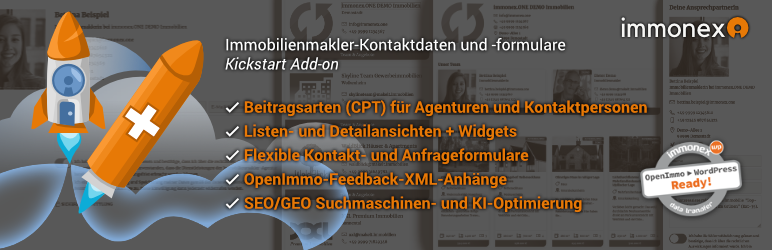
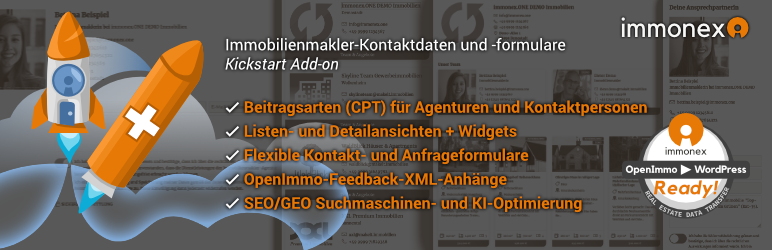
fix: automated agency assignment/update
- rework automated agency assignment
 - fix checksum comparison (automatic agency data updates)
 - update dependencies (i.a. core 2.7.0)
 - update header images
 - bump stable version to 1.8.3

Changed region(s): [[0.8083, 0.448, 0.9637, 0.868]]

diff --git a/src/includes/class-agency-hooks.php b/src/includes/class-agency-hooks.php
@@ -241,14 +241,15 @@ class Agency_Hooks extends Base_CPT_Hooks {
 	} // is_valid_agency_id
 
 	/**
-	 * Find an agency post based on the given parameters (including company name
-	 * vs. post title similarity check).
+	 * Find an agency post based on the given parameters.
 	 *
 	 * @since 1.0.0
 	 *
 	 * @param int|string|bool $author_id Author ID.
-	 * @param string|bool     $import_folder Related import folder.
-	 * @param string|bool     $company Agency company name.
+	 * @param string          $import_folder Related import folder.
+	 * @param string          $company Agency company name.
+	 * @param string          $anid OpenImmo Agency ID (ANID).
+	 * @param string          $email Agency email address.
 	 * @param bool            $best_match_only Indicate if one ("best matching")
 	 *                                         agency post shall be returned only.
 	 *
@@ -258,7 +259,9 @@ class Agency_Hooks extends Base_CPT_Hooks {
 	public function find(
 		$author_id = false,
 		$import_folder = 'global',
-		$company = false,
+		$company = '',
+		$anid = '',
+		$email = '',
 		$best_match_only = false
 	) {
 		$meta_query = array(
@@ -268,6 +271,20 @@ class Agency_Hooks extends Base_CPT_Hooks {
 				'value' => $import_folder,
 			),
 		);
+
+		if ( $anid ) {
+			$meta_query[] = array(
+				'key'   => '_openimmo_anid',
+				'value' => sanitize_text_field( $anid ),
+			);
+		}
+
+		if ( $email ) {
+			$meta_query[] = array(
+				'key'   => '_inx_team_agency_email',
+				'value' => sanitize_email( $email ),
+			);
+		}
 
 		$args = array(
 			'post_type'        => $this->post_type_name,
@@ -281,6 +298,7 @@ class Agency_Hooks extends Base_CPT_Hooks {
 		}
 
 		$posts = get_posts( $args );
+
 		if ( 0 === count( $posts ) ) {
 			return $best_match_only ? false : array();
 		}
@@ -292,40 +310,15 @@ class Agency_Hooks extends Base_CPT_Hooks {
 		$agencies = array();
 
 		foreach ( $posts as $post ) {
-			$similarity = 0;
-			similar_text( $post->post_title, $company, $similarity );
-
-			if ( $similarity > 85 ) {
-				$agencies[] = array(
-					'post'       => $post,
-					'similarity' => $similarity,
-				);
-			}
-		}
-
-		$agencies_return = array();
-
-		if ( count( $agencies ) > 0 ) {
-			usort(
-				$agencies,
-				function ( $a, $b ) {
-					if ( $a['similarity'] === $b['similarity'] ) {
-						return 0;
-					}
-
-					return $a['similarity'] < $b['similarity'] ? -1 : 1;
-				}
-			);
-
-			foreach ( $agencies as $agency_data ) {
-				$agencies_return[] = $agency_data['post'];
+			if ( $post->post_title === $company ) {
+				$agencies[] = $post;
 			}
 		}
 
 		if ( $best_match_only ) {
-			return count( $agencies_return ) > 0 ? $agencies_return[0] : false;
+			return ! empty( $agencies ) ? $agencies[0] : false;
 		} else {
-			return $agencies_return;
+			return $agencies;
 		}
 	} // find
 

diff --git a/src/includes/class-agent-hooks.php b/src/includes/class-agent-hooks.php
@@ -478,6 +478,8 @@ class Agent_Hooks extends Base_CPT_Hooks {
 		$agency_id     = false;
 		$agency        = $agency_hooks ? $agency_hooks->get_post_instance() : false;
 		$company       = $agency->get_company_from_xml( $this->anbieter, $immobilie );
+		$anid          = trim( (string) $this->anbieter->openimmo_anid );
+		$email         = trim( (string) $immobilie->kontaktperson->email_zentrale );
 
 		if ( $agent_id ) {
 			$agency_id = get_post_meta( $agent_id, '_inx_team_agency_id', true );
@@ -515,6 +517,8 @@ class Agent_Hooks extends Base_CPT_Hooks {
 				$core_data['user_id'],
 				$core_data['import_folder'],
 				$company,
+				$anid,
+				$email,
 				true
 			);
 
@@ -529,7 +533,7 @@ class Agent_Hooks extends Base_CPT_Hooks {
 			$agency->post
 			&& (
 				! get_post_meta( $agency->post->ID, "{$agency_prefix}auto_update", true )
-				|| (int) get_post_meta( $agency_id, "{$agent_prefix}update_checksum", true ) === $agency->get_checksum( $this->anbieter )
+				|| (int) get_post_meta( $agency_id, "{$agency_prefix}update_checksum", true ) === $agency->get_checksum( $this->anbieter )
 			)
 		) {
 			return $agency_id;

diff --git a/src/includes/class-kickstart-team.php b/src/includes/class-kickstart-team.php
@@ -10,14 +10,14 @@ namespace immonex\Kickstart\Team;
 /**
  * Main plugin class
  */
-class Kickstart_Team extends \immonex\WordPressFreePluginCore\V2_6_4\Base {
+class Kickstart_Team extends \immonex\WordPressFreePluginCore\V2_7_0\Base {
 
 	const PLUGIN_NAME                = 'immonex Kickstart Team';
 	const ADDON_NAME                 = 'Team';
 	const ADDON_TAB_ID               = 'addon_team';
 	const PLUGIN_PREFIX              = 'inx_team_';
 	const PUBLIC_PREFIX              = 'inx-team-';
-	const PLUGIN_VERSION             = '1.8.1-beta';
+	const PLUGIN_VERSION             = '1.8.3';
 	const PLUGIN_HOME_URL            = 'https://de.wordpress.org/plugins/immonex-kickstart-team/';
 	const PLUGIN_DOC_URLS            = array(
 		'de' => 'https://docs.immonex.de/kickstart-team/',

diff --git a/src/immonex-kickstart-team.php b/src/immonex-kickstart-team.php
@@ -3,7 +3,7 @@
  * Plugin Name:       immonex Kickstart Team
  * Plugin URI:        https://wordpress.org/plugins/immonex-kickstart-team/
  * Description:       immonex Kickstart add-on for handling, linking and embedding OpenImmo-XML-based real estate agent/agency information and contact forms
- * Version:           1.8.1-beta
+ * Version:           1.8.3
  * Text Domain:       immonex-kickstart-team
  * Domain Path:       /languages
  * Requires at least: 5.5

diff --git a/src/includes/class-agency.php b/src/includes/class-agency.php
@@ -373,7 +373,7 @@ class Agency extends Base_CPT_Post {
 	} // update_by_openimmo_xml
 
 	/**
-	 * Determine the company name from different XML elements.
+	 * Determine the company name based on different XML elements.
 	 *
 	 * @since 1.0.0
 	 *
@@ -391,7 +391,7 @@ class Agency extends Base_CPT_Post {
 			}
 		}
 
-		return sanitize_text_field( $company );
+		return trim( sanitize_text_field( $company ) );
 	} // get_company_from_xml
 
 	/**
